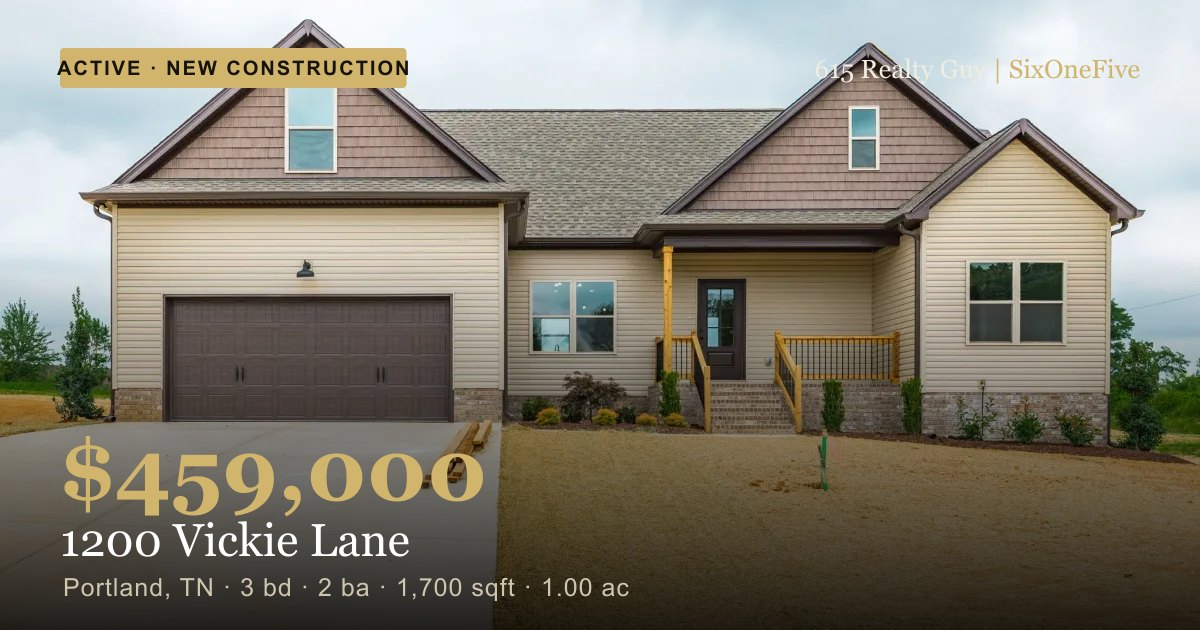
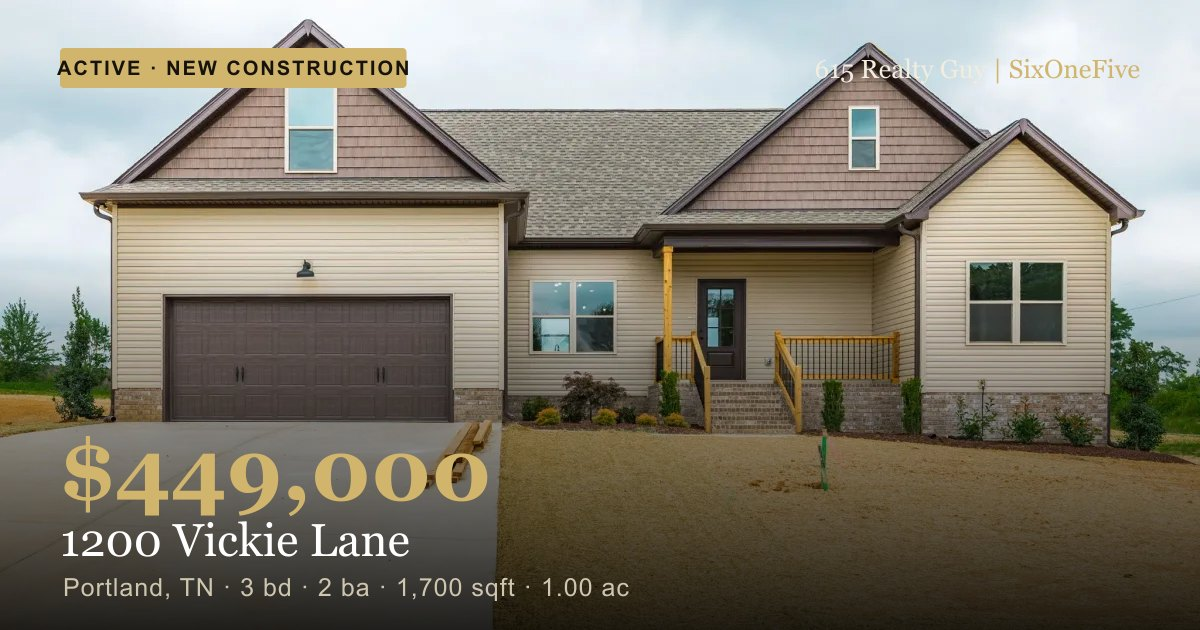
Update listings: Cherry Ln active, Vickie Ln price cuts
- 319 Cherry Ln: coming_soon -> active; clean coming-soon copy
- 1200 & 1204 Vickie Ln: $459,000 -> $449,000; remove builder/lender incentive ticket + related SEO/FAQ copy
- Regenerate OG social cards for all three

Changed region(s): [[0.1233, 0.7238, 0.4317, 0.8444]]

diff --git a/_listings/319-cherry-ln-white-house-tn.md b/_listings/319-cherry-ln-white-house-tn.md
@@ -2,8 +2,7 @@
 layout: listing
 
 # active | pending | sold | coming_soon
-status: coming_soon
-available_date: "June 15"          # shown on the Coming Soon badge / teaser
+status: active
 
 slug: 319-cherry-ln-white-house-tn
 address: "319 Cherry Lane"
@@ -35,8 +34,8 @@ lat: 36.461002
 lng: -86.669469
 
 # ─── SEO / AEO ───────────────────────────────────────────────────────────
-seo_title: "319 Cherry Ln, White House TN — All-Brick Home on 0.68 Acre (Coming Soon)"
-seo_description: "Coming soon in White House's Orchard Park: an all-brick 3 bed, 2 bath, 2,350 sqft home on 0.68 acre with a bonus room, screened porch, she-shed, and no HOA. $519,900 — available June 15."
+seo_title: "319 Cherry Ln, White House TN — All-Brick Home on 0.68 Acre"
+seo_description: "In White House's Orchard Park: an all-brick 3 bed, 2 bath, 2,350 sqft home on 0.68 acre with a bonus room, screened porch, she-shed, and no HOA. $519,900."
 
 # ─── Agent (rail) ────────────────────────────────────────────────────────
 agents:
@@ -55,7 +54,7 @@ narrative:
   eyebrow: "The home"
   title: "An all-brick original-owner home in White House's Orchard Park"
   paragraphs:
-    - "Coming soon in the established Orchard Park neighborhood: an all-brick home with 2,350 square feet of move-in-ready space on a roomy 0.68-acre lot — and no HOA. Lovingly kept by its original owners, it shows in excellent shape throughout, with a bonus room over the garage that's ready to be a playroom, office, or media room."
+    - "In the established Orchard Park neighborhood: an all-brick home with 2,350 square feet of move-in-ready space on a roomy 0.68-acre lot — and no HOA. Lovingly kept by its original owners, it shows in excellent shape throughout, with a bonus room over the garage that's ready to be a playroom, office, or media room."
     - "Recent updates do the heavy lifting: a renovated kitchen and two full baths redone with tile showers. All kitchen appliances plus the washer and dryer convey, so it's truly move-in ready. Out back, a screened-in porch is built for relaxing or entertaining, and a detached \"she-shed\" adds flexible space for a studio, hobby room, or extra storage."
     - "A finished two-car garage, a gas fireplace, and fiber internet round it out — all in the White House Heritage school zone, minutes from town and an easy I-65 commute. Ask about the home warranty being offered to the new owners."
 
@@ -85,8 +84,8 @@ area_page: "/white-house-tn-real-estate.html"
 
 # ─── FAQ (drives the FAQPage schema) ─────────────────────────────────────
 faq:
-  - q: "When will 319 Cherry Lane be available to tour?"
-    a: "It's coming soon, with professional photos and showings beginning June 15. Get on the early list and we'll line up a private showing as soon as it's available."
+  - q: "Can I tour 319 Cherry Lane?"
+    a: "Yes — it's active and available to show now. Reach out and we'll line up a private showing at a time that works for you."
   - q: "Is there an HOA?"
     a: "No HOA — no monthly dues or association restrictions on this 0.68-acre lot."
   - q: "What updates have been made?"

diff --git a/_listings/1204-vickie-ln-portland-tn.md b/_listings/1204-vickie-ln-portland-tn.md
@@ -17,9 +17,9 @@ county: "Sumner"
 subdivision: "Angelina Estates"
 
 # ─── Numbers ─────────────────────────────────────────────────────────────
-price: 459000
-price_display: "$459,000"          # what shows on the page (with commas/$)
-price_sub: "$255 / sqft · seller concessions offered"
+price: 449000
+price_display: "$449,000"          # what shows on the page (with commas/$)
+price_sub: "$249 / sqft · seller concessions offered"
 beds: 3
 baths: 2
 sqft: "1,800"
@@ -39,7 +39,7 @@ lng: -86.518611
 
 # ─── SEO / AEO ───────────────────────────────────────────────────────────
 seo_title: "1204 Vickie Ln, Portland TN 37148 — New Construction on 1 Acre"
-seo_description: "New construction at 1204 Vickie Ln in Angelina Estates, Portland TN. 3 bed, 2 bath, 1,800 sqft on a full acre with a 20x20 bonus room. $5,000 builder credit available."
+seo_description: "New construction at 1204 Vickie Ln in Angelina Estates, Portland TN. 3 bed, 2 bath, 1,800 sqft on a full acre with a 20x20 bonus room."
 
 # ─── Agents (rail) ───────────────────────────────────────────────────────
 agents:
@@ -54,13 +54,6 @@ agents:
     phone: "(615) 430-9923"
     tel: "6154309923"
     initials: "MH"
-
-# ─── Incentive ticket (shown only while status: active) ──────────────────
-incentive:
-  eyebrow: "Builder incentive · limited time"
-  headline: "$5,000 in builder credits + a 1-point rate buydown"
-  body: "Qualified buyers receive five thousand dollars toward closing costs or upgrades, plus a one-point lender buydown credit through Prosperity Mortgage — a meaningful cut to your monthly payment in year one."
-  disclaimer: "Subject to lender qualification · ask for details"
 
 # ─── Narrative (rewritten from the PDF facts — never copy MLS remarks) ────
 narrative:
@@ -98,8 +91,6 @@ area_page: "/portland-tn-real-estate.html"
 faq:
   - q: "Is 1204 Vickie Lane on city sewer or septic?"
     a: "City water, septic tank — common for acre lots in this part of Sumner County, and one less monthly utility bill."
-  - q: "What builder incentives are available right now?"
-    a: "Qualified buyers can receive $5,000 in builder credits plus a one-point lender buydown credit through Prosperity Mortgage. Incentives are subject to change — confirm current terms before writing an offer."
   - q: "What schools is this home zoned for?"
     a: "Watt Hardison Elementary, Portland West Middle, and Portland High School. Always verify zoning directly with Sumner County Schools before closing."
   - q: "Is there an HOA in Angelina Estates?"

diff --git a/_listings/1200-vickie-ln-portland-tn.md b/_listings/1200-vickie-ln-portland-tn.md
@@ -17,9 +17,9 @@ county: "Sumner"
 subdivision: "Angelina Estates"
 
 # ─── Numbers ─────────────────────────────────────────────────────────────
-price: 459000
-price_display: "$459,000"
-price_sub: "$270 / sqft · seller concessions offered"
+price: 449000
+price_display: "$449,000"
+price_sub: "$264 / sqft · seller concessions offered"
 beds: 3
 baths: 2
 sqft: "1,700"
@@ -40,7 +40,7 @@ lng:
 
 # ─── SEO / AEO ───────────────────────────────────────────────────────────
 seo_title: "1200 Vickie Ln, Portland TN 37148 — New Construction on 1 Acre"
-seo_description: "New construction at 1200 Vickie Ln in Angelina Estates, Portland TN. 3 bed, 2 bath, 1,700 sqft on a full acre with a bonus room over the garage. $5,000 builder credit available."
+seo_description: "New construction at 1200 Vickie Ln in Angelina Estates, Portland TN. 3 bed, 2 bath, 1,700 sqft on a full acre with a bonus room over the garage."
 
 # ─── Agents (rail) ───────────────────────────────────────────────────────
 agents:
@@ -55,13 +55,6 @@ agents:
     phone: "(615) 430-9923"
     tel: "6154309923"
     initials: "MH"
-
-# ─── Incentive ticket (shown only while status: active) ──────────────────
-incentive:
-  eyebrow: "Builder incentive · limited time"
-  headline: "$5,000 in builder credits + a 1-point rate buydown"
-  body: "Qualified buyers may receive five thousand dollars in builder credits plus a one-point lender buydown when working with the preferred lender — real savings on your closing costs and first-year payment."
-  disclaimer: "Subject to lender qualification · ask for details"
 
 # ─── Narrative (rewritten from the PDF facts — never copy MLS remarks) ────
 narrative:
@@ -99,8 +92,6 @@ area_page: "/portland-tn-real-estate.html"
 faq:
   - q: "Is 1200 Vickie Lane on city sewer or septic?"
     a: "City water, septic tank — common for acre lots in this part of Sumner County, and one less monthly utility bill."
-  - q: "What builder incentives are available right now?"
-    a: "Qualified buyers may receive $5,000 in builder credits plus a one-point lender buydown when working with the preferred lender. Incentives are subject to change — confirm current terms before writing an offer."
   - q: "What schools is this home zoned for?"
     a: "Watt Hardison Elementary, Portland West Middle School, and Portland High School. Always verify zoning directly with Sumner County Schools before closing."
   - q: "Is there an HOA in Angelina Estates?"
